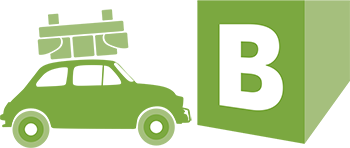
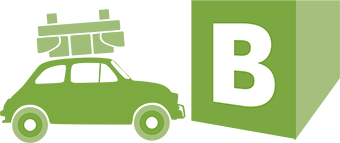
hiw images

diff --git a/index.html b/index.html
@@ -20,11 +20,11 @@ layout: hero
         </div>
 
         <div class="l-box pure-u-1 pure-u-md-1-5">
-            {% img "arrow-right.png" alt:"next" class:"hide-small hiw-image-arrow " %}
+            {% img "arrow-right.png" alt:"next" class:"hide-small hiw-image-arrow" %}
         </div>
 
         <div class="l-box pure-u-1 pure-u-md-1-5">
-            {% img "hiw-choose.png" alt:"Wähle einen Standort" class:"hiw-image" %}
+            {% img "hiw-choose.png" alt:"Wähle einen Standort" class:"hiw-image hiw-image-margin" %}
             <p class="content-subhead">
                 Standort und Box wählen
             </p>
@@ -36,7 +36,7 @@ layout: hero
         </div>
 
         <div class="l-box pure-u-1 pure-u-md-1-5">
-            {% img "hiw-use.png" alt:"Sofort einlagern" class:"hiw-image" %}
+            {% img "hiw-use.png" alt:"Sofort einlagern" class:"hiw-image hiw-image-margin hiw-image-use" %}
             <p class="content-subhead">
                 Sofort einlagern
             </p>

diff --git a/_assets/stylesheets/_hero.scss b/_assets/stylesheets/_hero.scss
@@ -4,6 +4,10 @@
   max-width: 100%;
 }
 
+.hiw-image-use {
+  max-width: 170px;
+}
+
 .hiw-image-arrow {
   margin-top: 50px;
 }

diff --git a/_assets/stylesheets/_media.scss b/_assets/stylesheets/_media.scss
@@ -96,5 +96,8 @@
     padding-bottom: 20px;
   }
 
+  .hiw-image-margin {
+    margin-top: 50px;
+  }
 
 }
